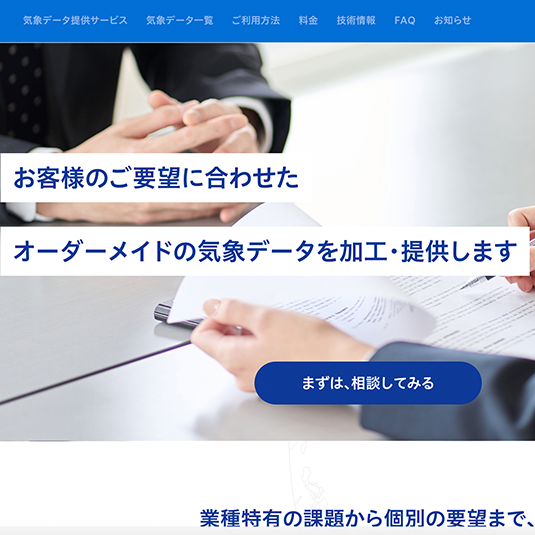
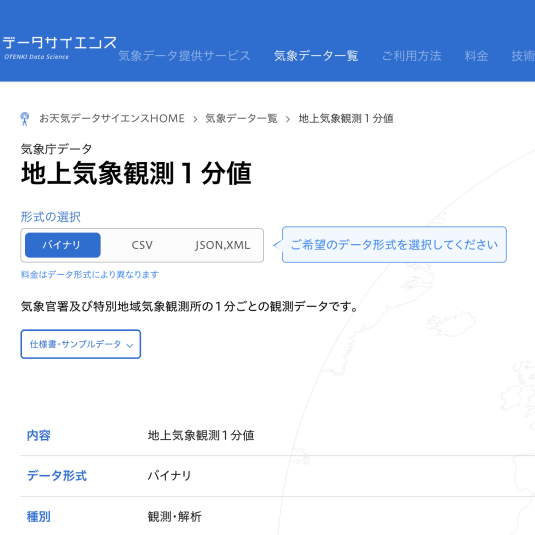
ods

diff --git a/ods.html b/ods.html
@@ -1,0 +1,101 @@
+<!DOCTYPE html>
+<html lang="ja">
+<head>
+    <meta charset="UTF-8">
+    <meta name="viewport" content="width=device-width,initial-scale=1.0,minimum-scale=1.0">
+    <meta http-equiv="X-UA-Compatible" content="IE=edge">   
+    <meta name="keywords" content="">
+    <meta name="description" content="">
+    <title>MEGUMI TOKUYAMA</title>
+    <meta http-equiv="content-type" charset="utf-8">
+    <link rel="stylesheet" href="./css/ress.css">
+    <link rel="stylesheet" href="https://cdnjs.cloudflare.com/ajax/libs/Swiper/5.3.7/css/swiper.min.css">
+    <link rel="stylesheet" href="./css/styles.css">
+    <link rel="stylesheet" href="https://maxcdn.bootstrapcdn.com/font-awesome/4.5.0/css/font-awesome.min.css">    
+    <link rel="preconnect" href="https://fonts.gstatic.com">
+    <link href="https://fonts.googleapis.com/css2?family=Quicksand&display=swap" rel="stylesheet">
+    <!--[if lt IE 9]>
+    <script src="http://html5shiv.googlecode.com/svn/trunk/html5.js"></script>
+    <![endif]-->
+    <script src="https://ajax.googleapis.com/ajax/libs/jquery/3.2.1/jquery.min.js"></script>
+    <script src="https://cdnjs.cloudflare.com/ajax/libs/Swiper/5.3.7/js/swiper.min.js"></script>
+    <script type="text/javascript" src="js/swiper.js"></script>
+    <script type="text/javascript" src="js/toglle.js"></script>
+    <script type="text/javascript" src="js/include.js"></script>
+    <script type="text/javascript" src="js/scroll.js"></script>
+    <script type="text/javascript" src="js/fadesecond.js"></script>
+</head>
+<body>
+  <!-- Nav -->
+  <div id="header-outer">
+    <header id="header-inner">
+      <div class="inner">
+        <nav>
+          <div class="drawer">
+            <h1><a href="./index.html">Megumi</a></h1>
+              <div id="nav-toggle">
+              <span></span>
+              <span></span>
+              <span></span>
+              </div>
+          </div>
+          <div class="menu">
+            <ul>
+              <li><a href="./index.html#Web">Web</a></li>
+              <li><a href="./index.html#Illustration">Illustration</a></li>
+              <li><a href="./index.html#Gadget">Gadget</a></li>
+              <li><a href="./index.html#Pamphlet">Pamphlet</a></li>
+            </ul>
+          </div>
+        </nav>
+      </div>
+    </header>
+  </div>
+        <main>
+            <section class="breadcrumb">
+                <ol class="inner">
+                <li><span><a href="./index.html">Top</a></span></li>
+                <li><span><a href="./index.html#Web">Web</a></span></li>
+                <li><span>日本気象株式会社 お天気データサイエンス　UIUX改善</span></li>
+                </ol>
+            </section>
+            <section id="Web">
+                <dl class="inner">
+                <dt class="title">Web</dt>
+                <dd>
+                <figure class="detail_item">
+                <img src="./img/ods_big.png">
+                <figcaption class="detail">
+                <p class="detail_txt">日本気象株式会社 お天気データサイエンス　UIUX改善<br><a href="https://ods.n-kishou.co.jp/data/detail/6322" target="_blank">https://ods.n-kishou.co.jp/data/detail/6322</a><br>担　当：UIUX改善・コーディング</p>
+                </figcaption>
+                </figure>
+                </dd>
+                    <div class="inner detail_box">
+                    <div class="detail_box_item">
+                    <div class="detail_box_txt">
+                    <p class="detail_txt">改善前</p>
+                    </div>
+                    <figure class=""><img src="./img/ods_before.png"></figure> 
+                    </div>
+                    <div class="detail_box_item">
+                      <div class="detail_box_txt">
+                        <p class="detail_txt">改善後</p>
+                      </div>
+                    <figure class=""><img src="./img/ods_after.png"></figure>
+                    </div>
+                </div>
+                <div class="inner">
+                  <div class="detail_box_txt">
+                    <p class="detail_txt">変更点のお知らせ</p>
+                  </div>
+                  <figure class=""><img src="./img/ods_change.png"></figure>  
+                </div>
+                </dl>
+
+            </section>
+        </main>
+    <div id="footer-outer">
+    <!-- インクルード -->
+    </div>
+</body>
+</html>

diff --git a/index.html b/index.html
@@ -53,10 +53,25 @@
       <div class="swiper-container">
         <div class="swiper-wrapper">
           <figure class="swiper-slide">
+            <a href="./sakura.html">
+              <img src="img/portfolio_09.png" alt="桜">
+            </a>
+          </figure>
+           <figure class="swiper-slide">
+            <a href="./25.html">
+              <img src="img/portfolio_10.png" alt="25">
+            </a>
+          </figure>
+          <figure class="swiper-slide">
+            <a href="./umi.html">
+              <img src="img/portfolio_11.png" alt="海">
+            </a>
+          </figure>
+          <!-- <figure class="swiper-slide">
             <a href="./aeras.html">
               <img src="img/portfolio_08.jpg" alt="アエラスヨガスタジオ">
             </a>
-          </figure>
+          </figure> -->
           <figure class="swiper-slide">
             <a href="./dogaclub.html">
               <img src="img/portfolio_01.jpg" alt="動画倶楽部">
@@ -72,11 +87,11 @@
               <img src="img/portfolio_03.jpg" alt="キレイの台所">
             </a>
           </figure>
-          <figure class="swiper-slide">
+          <!-- <figure class="swiper-slide">
             <a href="./jcd.html">
               <img src="img/portfolio_04.jpg" alt="JAPANCOUNTDOWN">
             </a>
-          </figure>
+          </figure> -->
         </div>
           <div class="swiper-button-prev"></div>
           <div class="swiper-button-next"></div>
@@ -88,6 +103,15 @@
         <dt class="title">Web</dt>
           <dd>
             <figure class="works_item fadein">
+              <a href="./sakura.html"><img src="img/sakura.jpg" alt="Sakura"></a>
+            </figure>
+            <figure class="works_item fadein">
+              <a href="./25.html"><img src="img/25.jpg" alt="25周年記念サイト"></a>
+            </figure>
+            <figure class="works_item fadein">
+              <a href="./umi.html"><img src="img/umi.jpg" alt="海"></a>
+            </figure>
+            <figure class="works_item fadein">
               <a href="./kireinodaidokoro.html"><img src="img/kitchen.png" alt="キレイの台所"></a>
             </figure>
             <figure class="works_item fadein">
@@ -95,6 +119,9 @@
             </figure>
             <figure class="works_item fadein">
               <a href="./mynaviabc.html"><img src="img/mynavigolf.png" alt="MYNAVIABCゴルフ"></a>
+            </figure>
+            <figure class="works_item fadein">
+              <a href="./ods.html"><img src="img/ods.png" alt="お天気データサイエンス"></a>
             </figure>
             <figure class="works_item fadein">
               <a href="./sentofwoman.html"><img src="img/sentofwoman.jpg" alt="女の香り"></a>
@@ -111,15 +138,7 @@
             <figure class="works_item fadein">
               <a href="./aeras.html"><img src="img/aeras.jpg" alt="AerasYogaStudio"></a>
             </figure>
-            <figure class="works_item fadein">
-              <a href="./sakura.html"><img src="img/sakura.jpg" alt="Sakura"></a>
-            </figure>
-            <figure class="works_item fadein">
-              <a href="./25.html"><img src="img/25.jpg" alt="25周年記念サイト"></a>
-            </figure>
-            <figure class="works_item fadein">
-              <a href="./umi.html"><img src="img/umi.jpg" alt="海"></a>
-            </figure>
+
           </dd>
       </dl>
     </section>

diff --git a/css/styles.css b/css/styles.css
@@ -374,6 +374,21 @@ flex-direction: column;
 min-height: 100vh;
 }
 
+.detail_box {
+display: flex;
+flex-wrap: wrap;
+justify-content: flex-start;
+}
+
+.detail_box_item {
+  width: 50%;
+  padding: 1%;
+}
+
+.detail_box_txt {
+   padding: 1%; 
+}
+
 @media only screen and (min-width:600px) {
 .swiper-container{
   margin: 0 auto;
@@ -423,6 +438,7 @@ padding-top: 5.5rem;
   flex-direction: column;
   min-height: 100vh;
 }
+
 }
 
 .detail_item{
